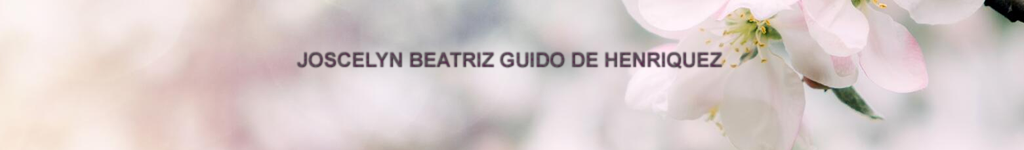
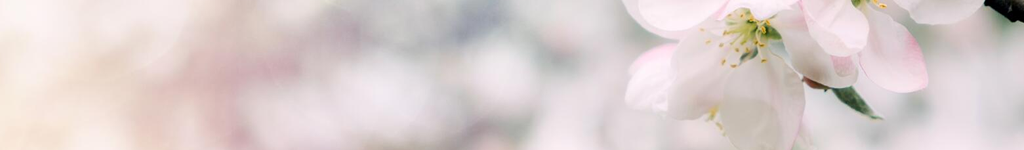
Add API call and style

Changed region(s): [[0.2812, 0.3467, 0.7188, 0.4533]]

diff --git a/src/views/index.html b/src/views/index.html
@@ -6,6 +6,24 @@
     <meta name="viewport" content="width=device-width, initial-scale=1.0">
     <link type="text/css" href="/css/style.css" rel="stylesheet">
     <title>KTT-First-Task</title>
+    <script>
+        const userAction = async () => {
+          const response = await fetch('https://pokeapi.co/api/v2/pokemon?limit=10&offset=90');
+          const pokemons = await response.json(); 
+          for (let index = 0; index < pokemons.results.length; index++) {
+              let mainSection = document.getElementById("main");
+              let div = document.createElement("div")
+              let p = document.createElement("p")
+              const pokemon = pokemons.results[index];
+              div.setAttribute('class', 'card');
+              p.append(pokemon.name);
+              div.append(p);
+              mainSection.append(div);             
+          }
+          
+      }
+      userAction();
+    </script>
 </head>
 <body>
     <div class="content">
@@ -25,12 +43,14 @@
               
         </nav>
     </header>
-    <section class="header">
-      
+    <section class="header">  
+        <span class="username">Joscelyn Beatriz Guido de Henriquez</span>    
     </section>
-    <section class="container">
-      
-    </section>
+    <section class="container">   
+      <div id="main">
+       
+      </div>
+   </section>
 </div>
 </body>
 </html>

diff --git a/src/css/style.css b/src/css/style.css
@@ -3,7 +3,7 @@
 {
     margin: 0 auto;
     display: block;
-    font-family: Arial, Helvetica, sans-serif;
+    font-family: Verdana, Geneva, Tahoma, sans-serif;
 }
 .navegation
 {
@@ -13,6 +13,7 @@
     min-width: 20%;
     position: absolute;
     height: 100%;
+    border-radius: 0.5em;
     
 }
 .navegation ul
@@ -40,17 +41,56 @@
     background-repeat: no-repeat;
     background-size: cover;
     float:right;
-    padding: 60px;
+    padding: 50px;
+    border-radius: 0.5em;
 
     
 }
 
 .container
 {
-    background: #FFFAFA;
+    padding-top: 50px;
     width: 80%;
     min-width: auto;
     float:right;
+    
+}
+
+.username
+{
+
+    display: block;
+    font-family: Verdana, Geneva, Tahoma, sans-serif;
+    font-weight: bold;
+    font-size: 20px;
+    color: #52222B;
+    line-height: 30px;
+    text-align: center;
+    font-weight: bold;
+}
+
+#main
+{
+    margin-left: auto;
+    margin-right: auto;
+    width: 80%;
+    display: grid;
+    grid-template-columns: repeat(4, 1fr);
+    grid-gap: 40px;
+}
+
+.card
+{
+    background: #FAF3F8;
+    min-height: 5em;
+    display: flex;
+    align-items: center;
+    justify-content: center;
+    border-radius: 0.5em;
+    color: #52222B;
+    border: 0.1em solid #680F4F;
+   
+
 }
 
  .menu-option

diff --git a/index.js b/index.js
@@ -3,17 +3,15 @@ const app = express();
 const path = require('path');
 
 app.use(express.static(__dirname + "/src"));
-//Configuraciones
+
 app.set("port", 3000);
-//routers
+
 app.get("/",(req, res) => {
     res.sendFile(path.join(__dirname, 'src/views/index.html'));
 
 });
 
 
-//static files
-//Listening the server
 app.listen(app.get('port'), () => {
 
     console.log("Server on port",app.get('port'));
